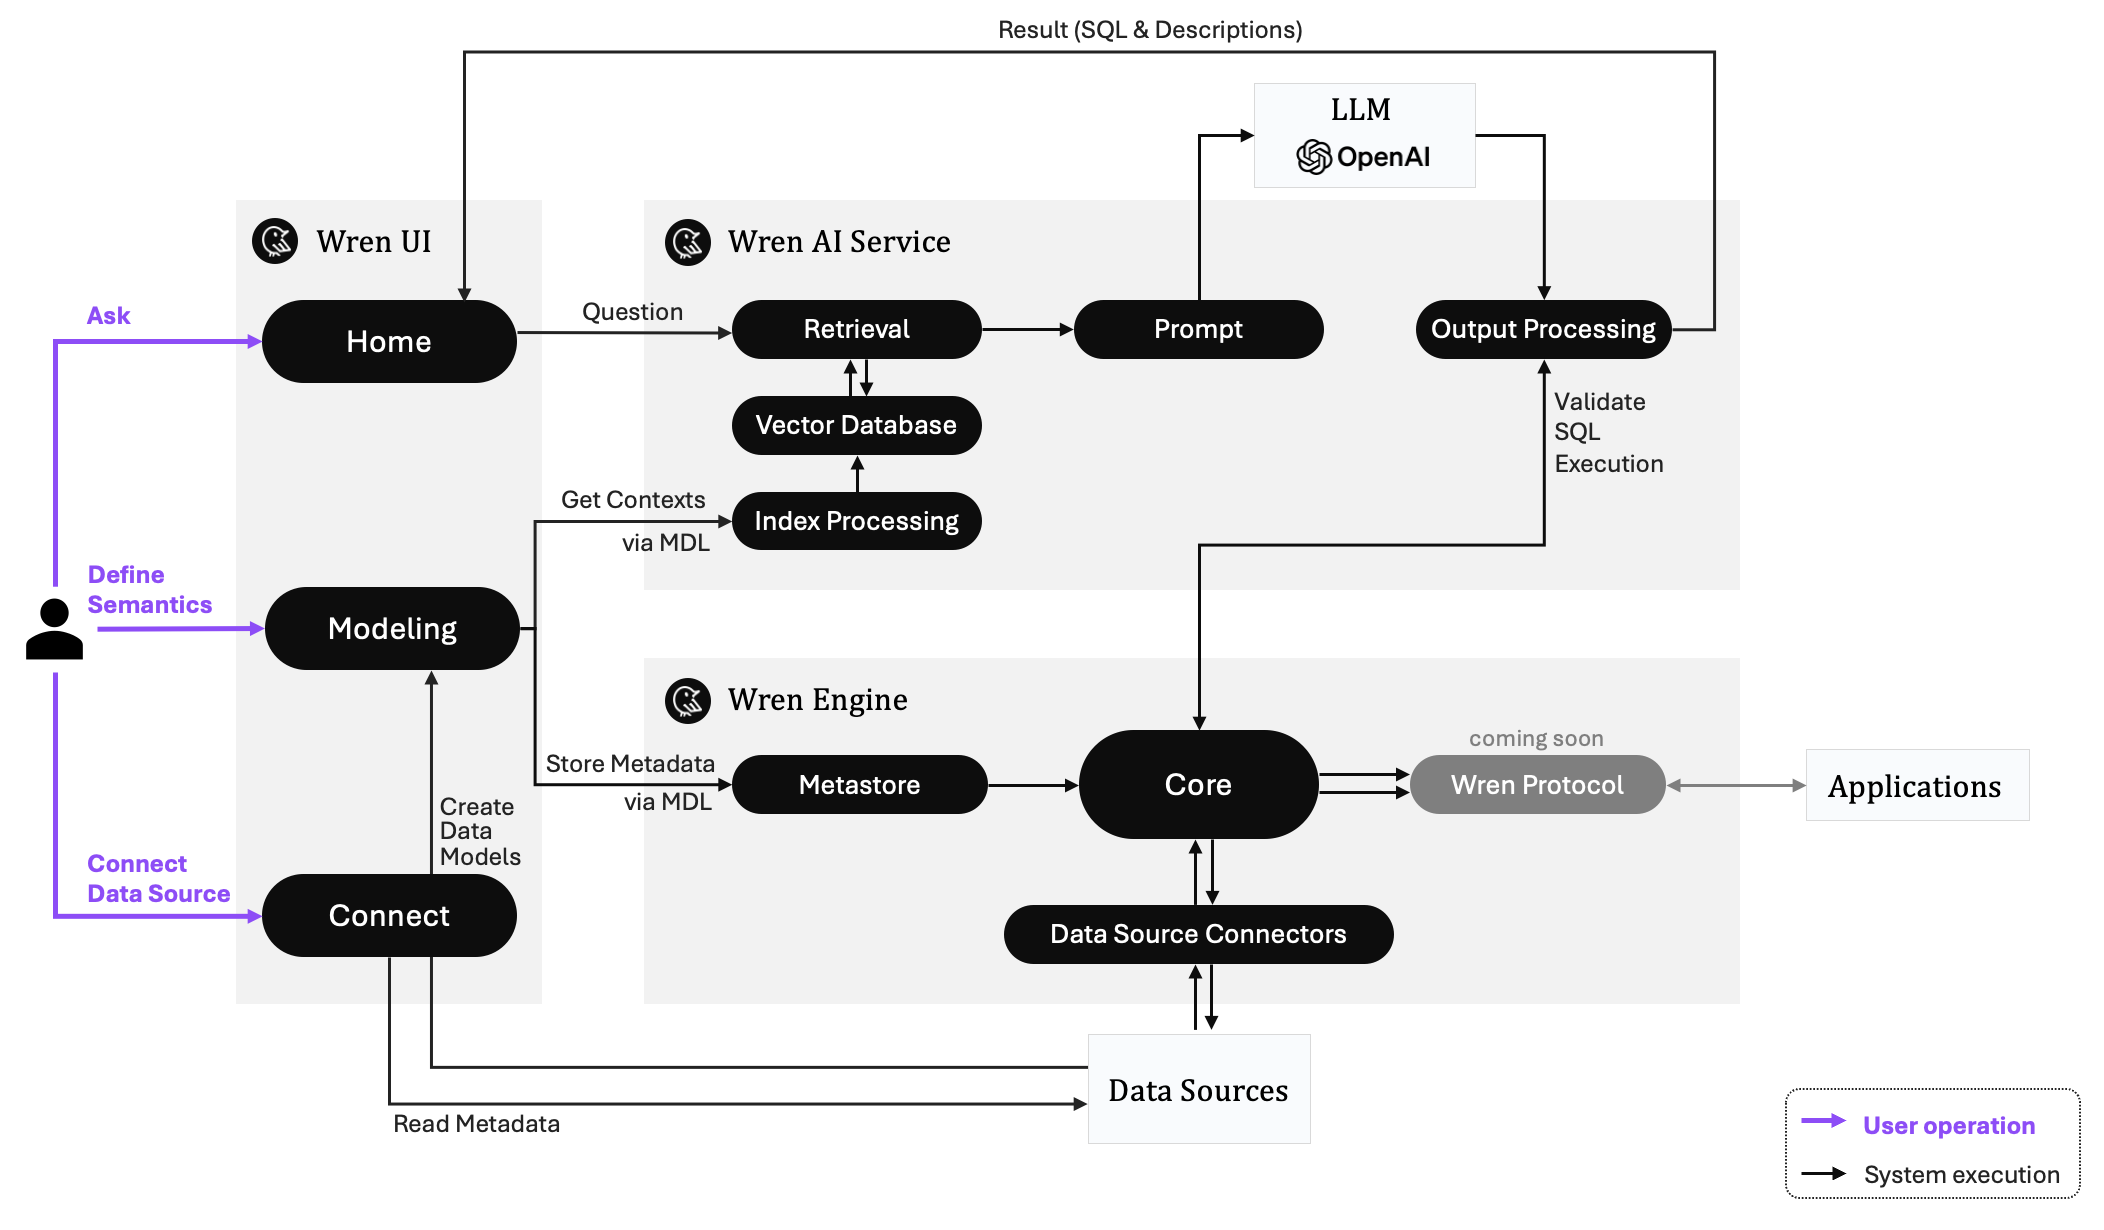
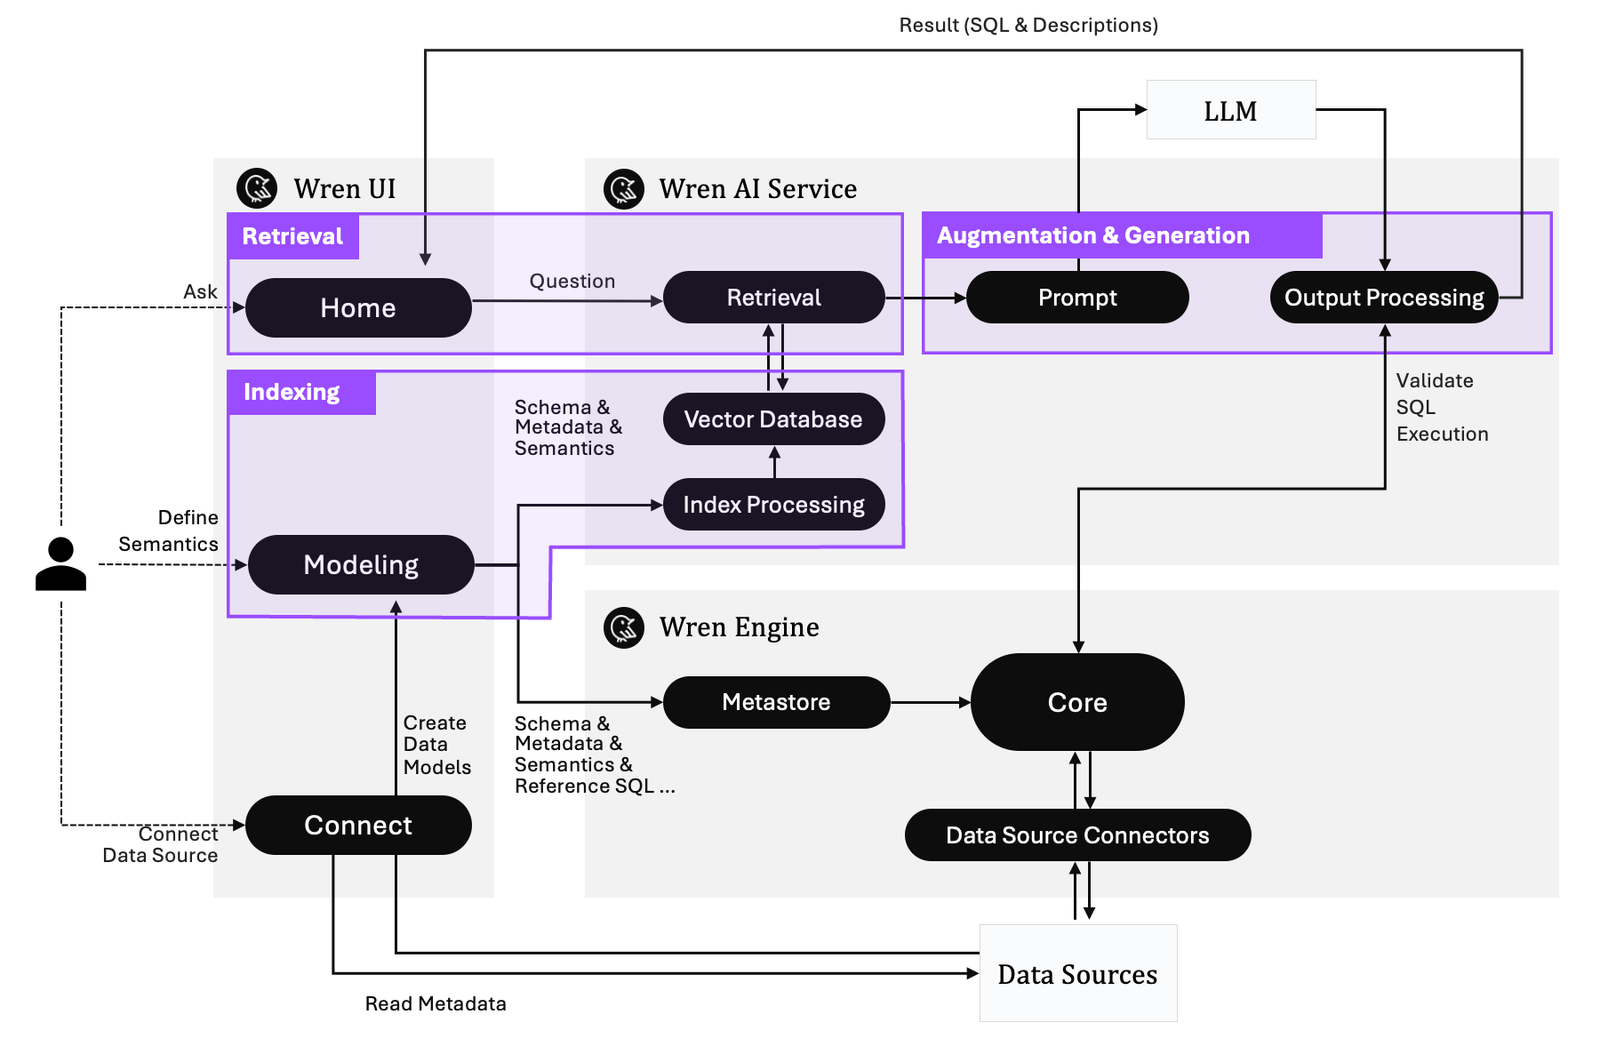
update pic and content (#273)

diff --git a/README.md b/README.md
@@ -74,7 +74,7 @@ WrenAI is reimagining how businesses can interact with and leverage their data t
 
 ## 🤔 Why WrenAI?
 
-We focus on providing a secure and reliable text-to-SQL solution for everyone.
+We focus on providing an open, secure and reliable text-to-SQL solution for everyone.
 
 ### 1. Turnkey Solution
 